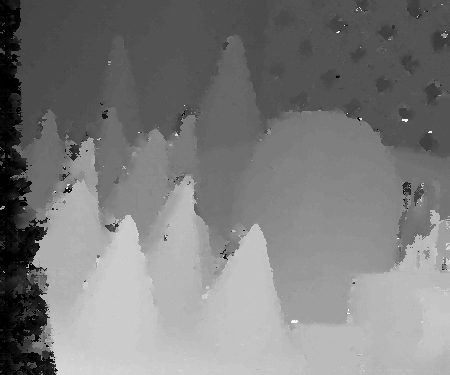
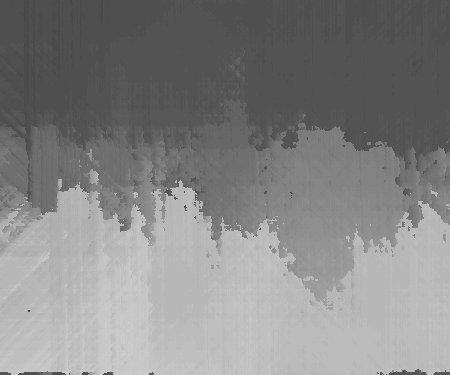
hog done

diff --git a/descriptors.py b/descriptors.py
@@ -4,6 +4,17 @@ import time as t
 import numpy as np
 from skimage.feature import hog, BRIEF
 
+def hog_single(img, descriptor_size, num_orientations):
+    rows, cols = img.shape
+    img_padded = np.pad(img, ((int(descriptor_size/2), int(descriptor_size/2)),(int(descriptor_size/2), int(descriptor_size/2))))
+
+    img_hog = np.zeros((rows, cols, num_orientations))
+
+    for i in range(rows):
+        for j in range(cols):
+            image = img_padded[i:i+descriptor_size, j:j+descriptor_size]
+            img_hog[i,j,:] = hog(image, orientations=num_orientations, pixels_per_cell=(descriptor_size, descriptor_size), cells_per_block=(1,1))
+    return img_hog
 
 def apply_hog(left, right, descriptor_size, num_orientations):
     """
@@ -15,6 +26,18 @@ def apply_hog(left, right, descriptor_size, num_orientations):
     :return: (H x W x M) array, H = height, W = width and M = num_orientations, of type np.float32.
     """
     # TODO: apply HOG descriptor on left and right images.
+
+    left_rows, left_cols = left.shape
+    right_rows, right_cols = right.shape
+
+    left_padded = np.pad(left, ((int(descriptor_size/2), int(descriptor_size/2)),(int(descriptor_size/2), int(descriptor_size/2))))
+
+    left_hog = hog_single(left, descriptor_size, num_orientations)
+    right_hog = hog_single(right, descriptor_size, num_orientations)
+
+    return (left_hog, right_hog)
+
+
 
 def convert_brief(descriptor):
     return descriptor.dot(2 ** np.arange(descriptor.size)[::-1])

diff --git a/experiments.py b/experiments.py
@@ -25,7 +25,7 @@ def experiments():
     right = 'cones/im6.png'
     gt_name = 'cones/disp2.png'
 
-    descriptor = 'brief'
+    descriptor = 'hog'
     if descriptor == 'brief':
         distance = distances.hamming_distance
     else:
